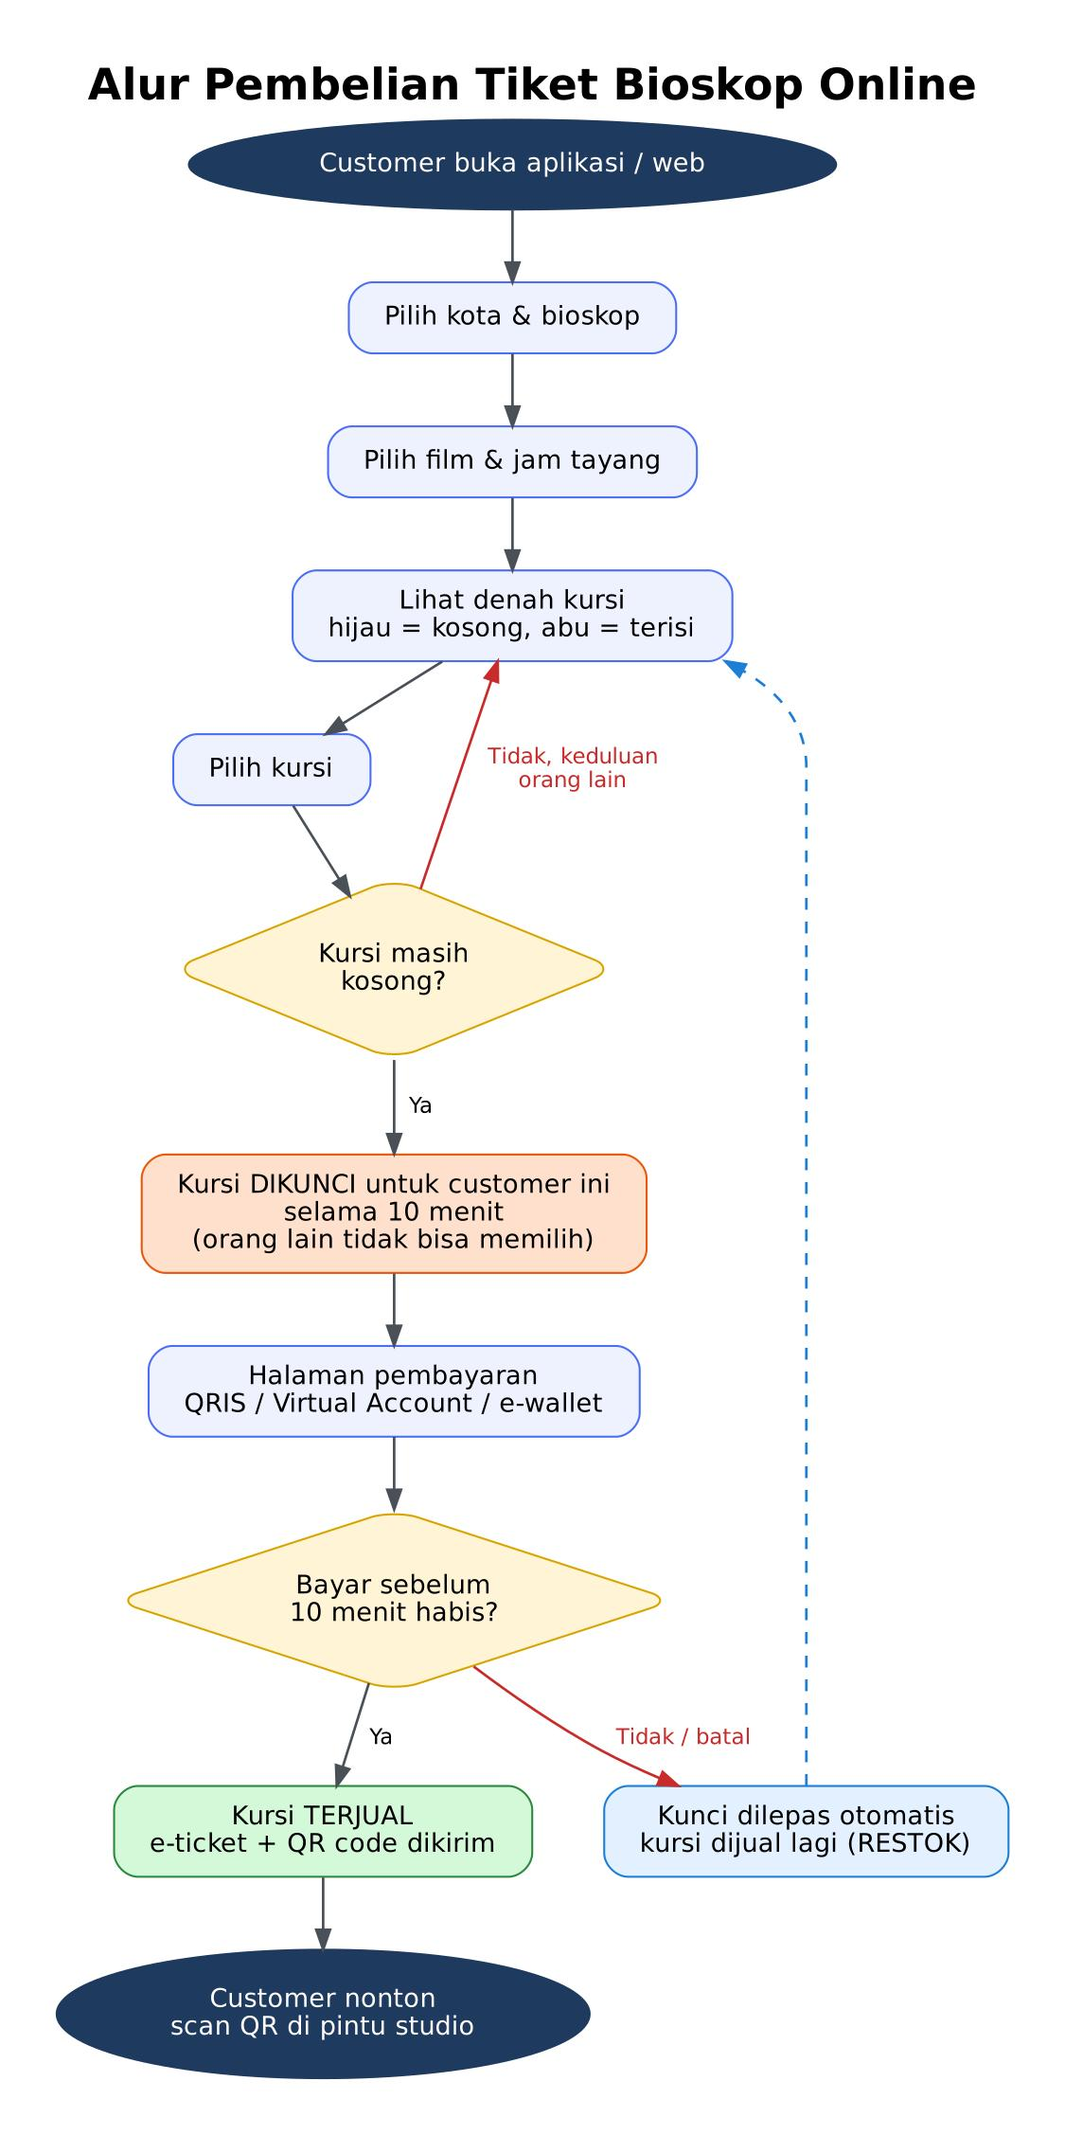
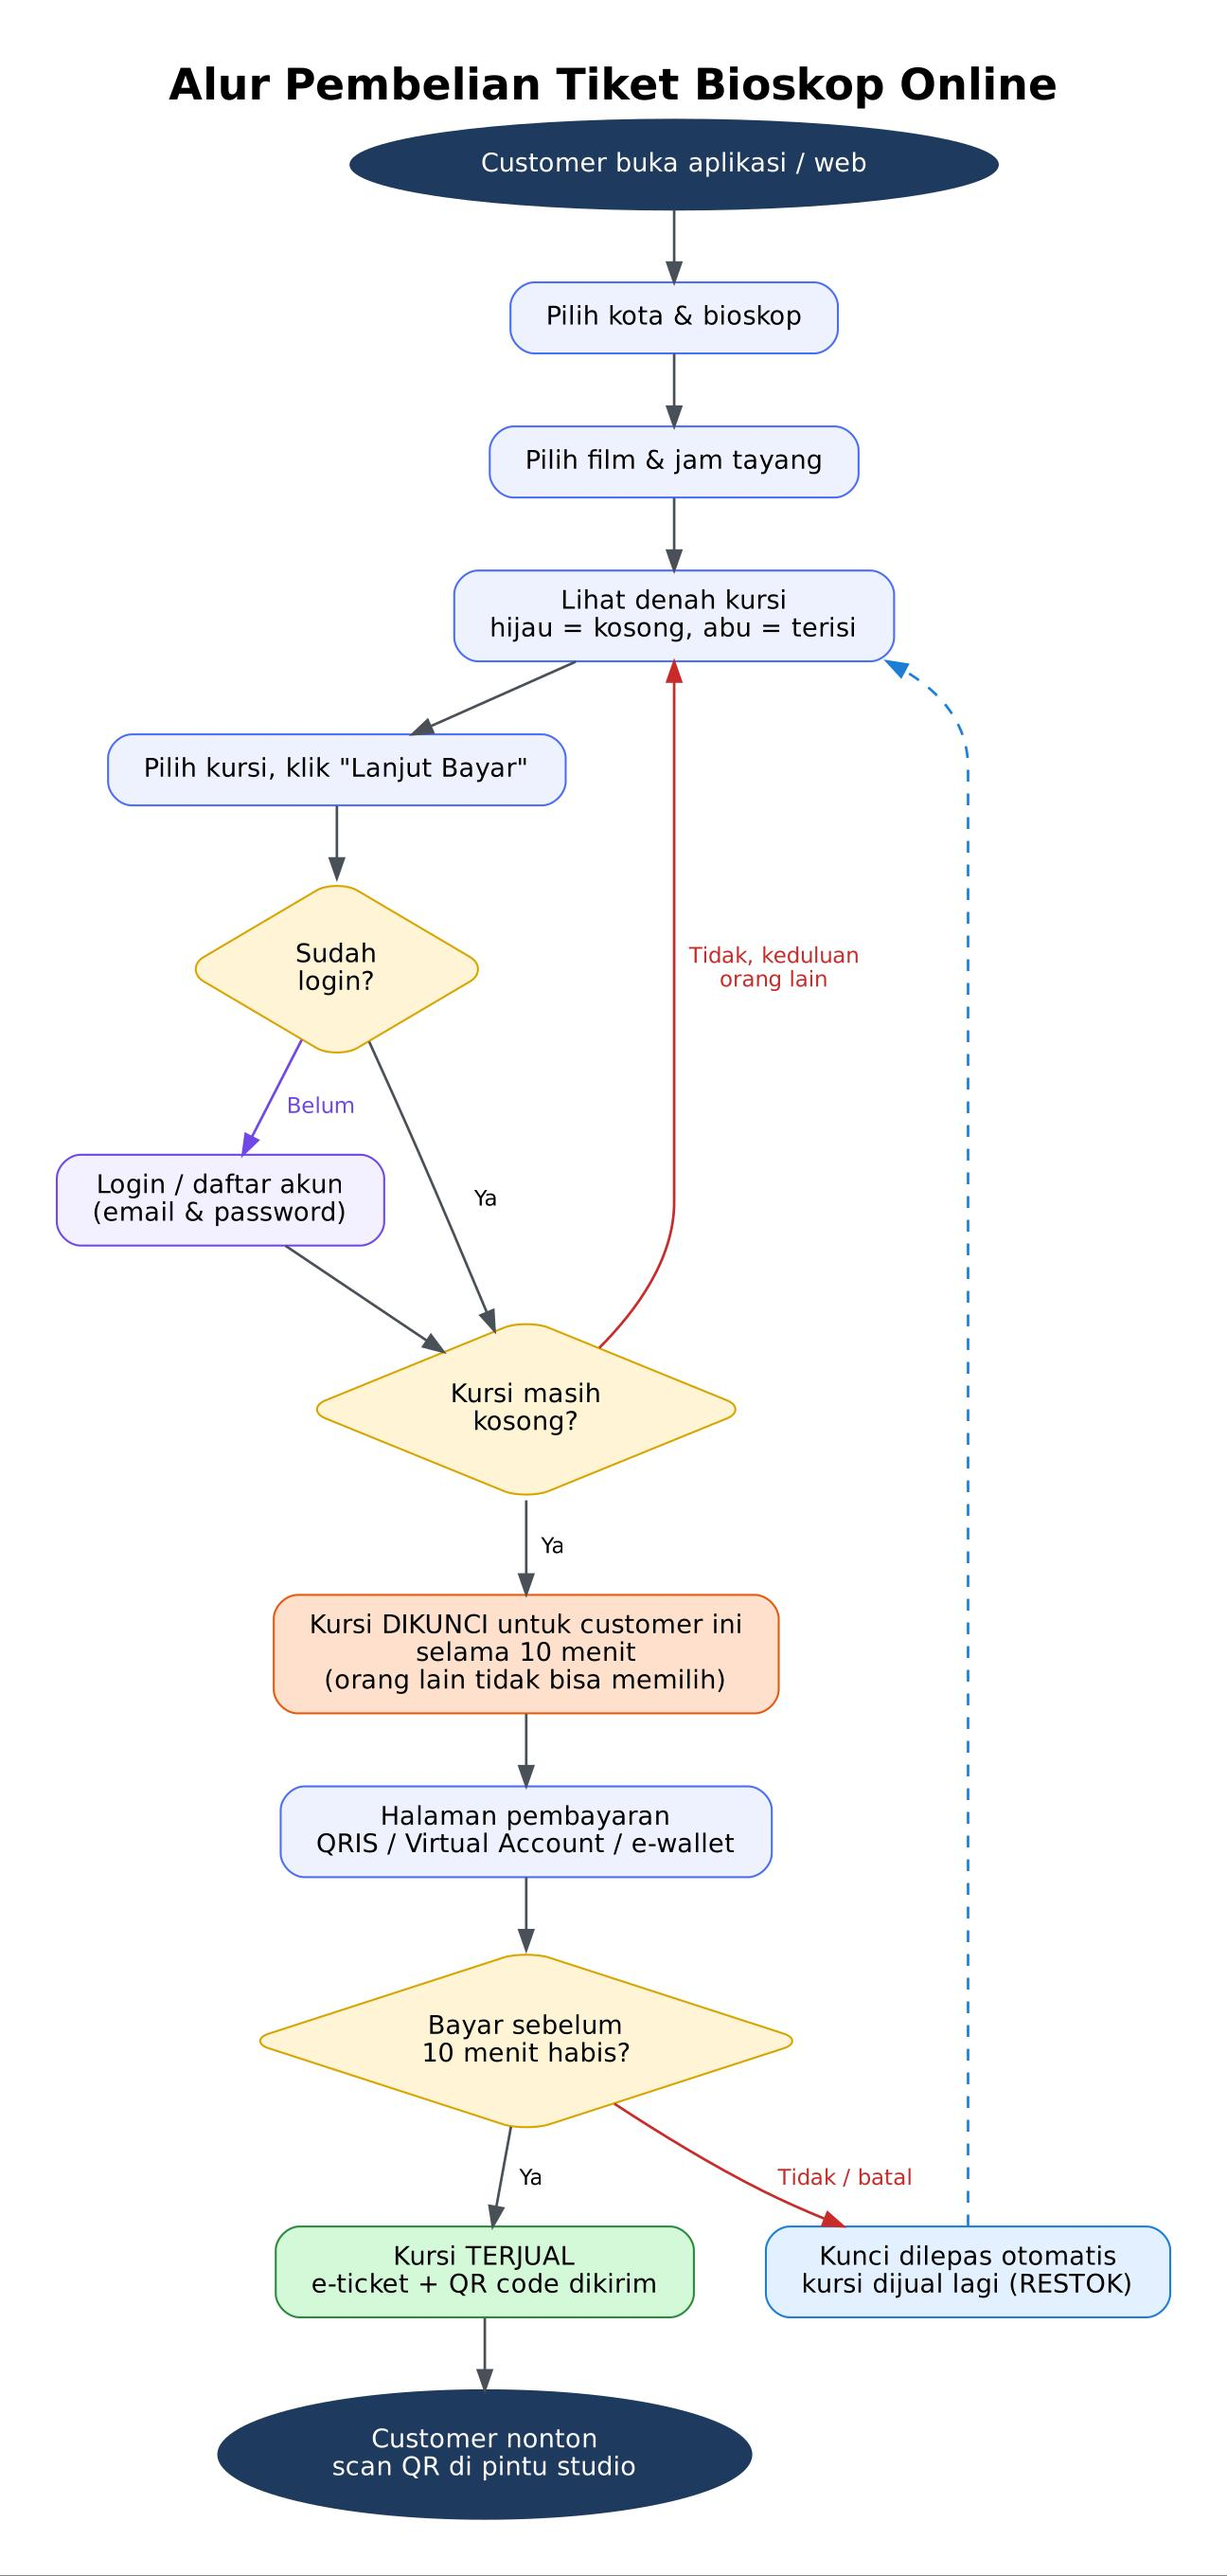
fix: update seat locking process to require user login before locking

Changed region(s): [[0.0311, 0.0, 0.9644, 0.9938], [0.6844, 0.3106, 0.7156, 0.3416]]

diff --git a/docs/system-design.md b/docs/system-design.md
@@ -32,7 +32,7 @@
 
 2. **Melihat denah (ringan).** Denah kursi disimpan di Redis dan diperbarui setiap ada perubahan status. Request "lihat denah" yang jumlahnya paling banyak tidak menyentuh database.
 
-3. **Mengunci kursi.** Saat customer menekan "Lanjut Bayar", semua kursi yang dipilih dikunci dalam 1 transaksi:
+3. **Mengunci kursi.** Melihat jadwal dan denah boleh tanpa login, tapi sebelum mengunci kursi customer wajib login (API `POST /api/v1/auth/login`), karena kursi dikunci atas nama user tersebut (`locked_by_user_id`). Saat customer menekan "Lanjut Bayar", semua kursi yang dipilih dikunci dalam 1 transaksi:
    ```sql
    UPDATE showtime_seats
    SET status = 'locked', locked_by_user_id = $user, locked_until = now() + interval '10 minutes'
